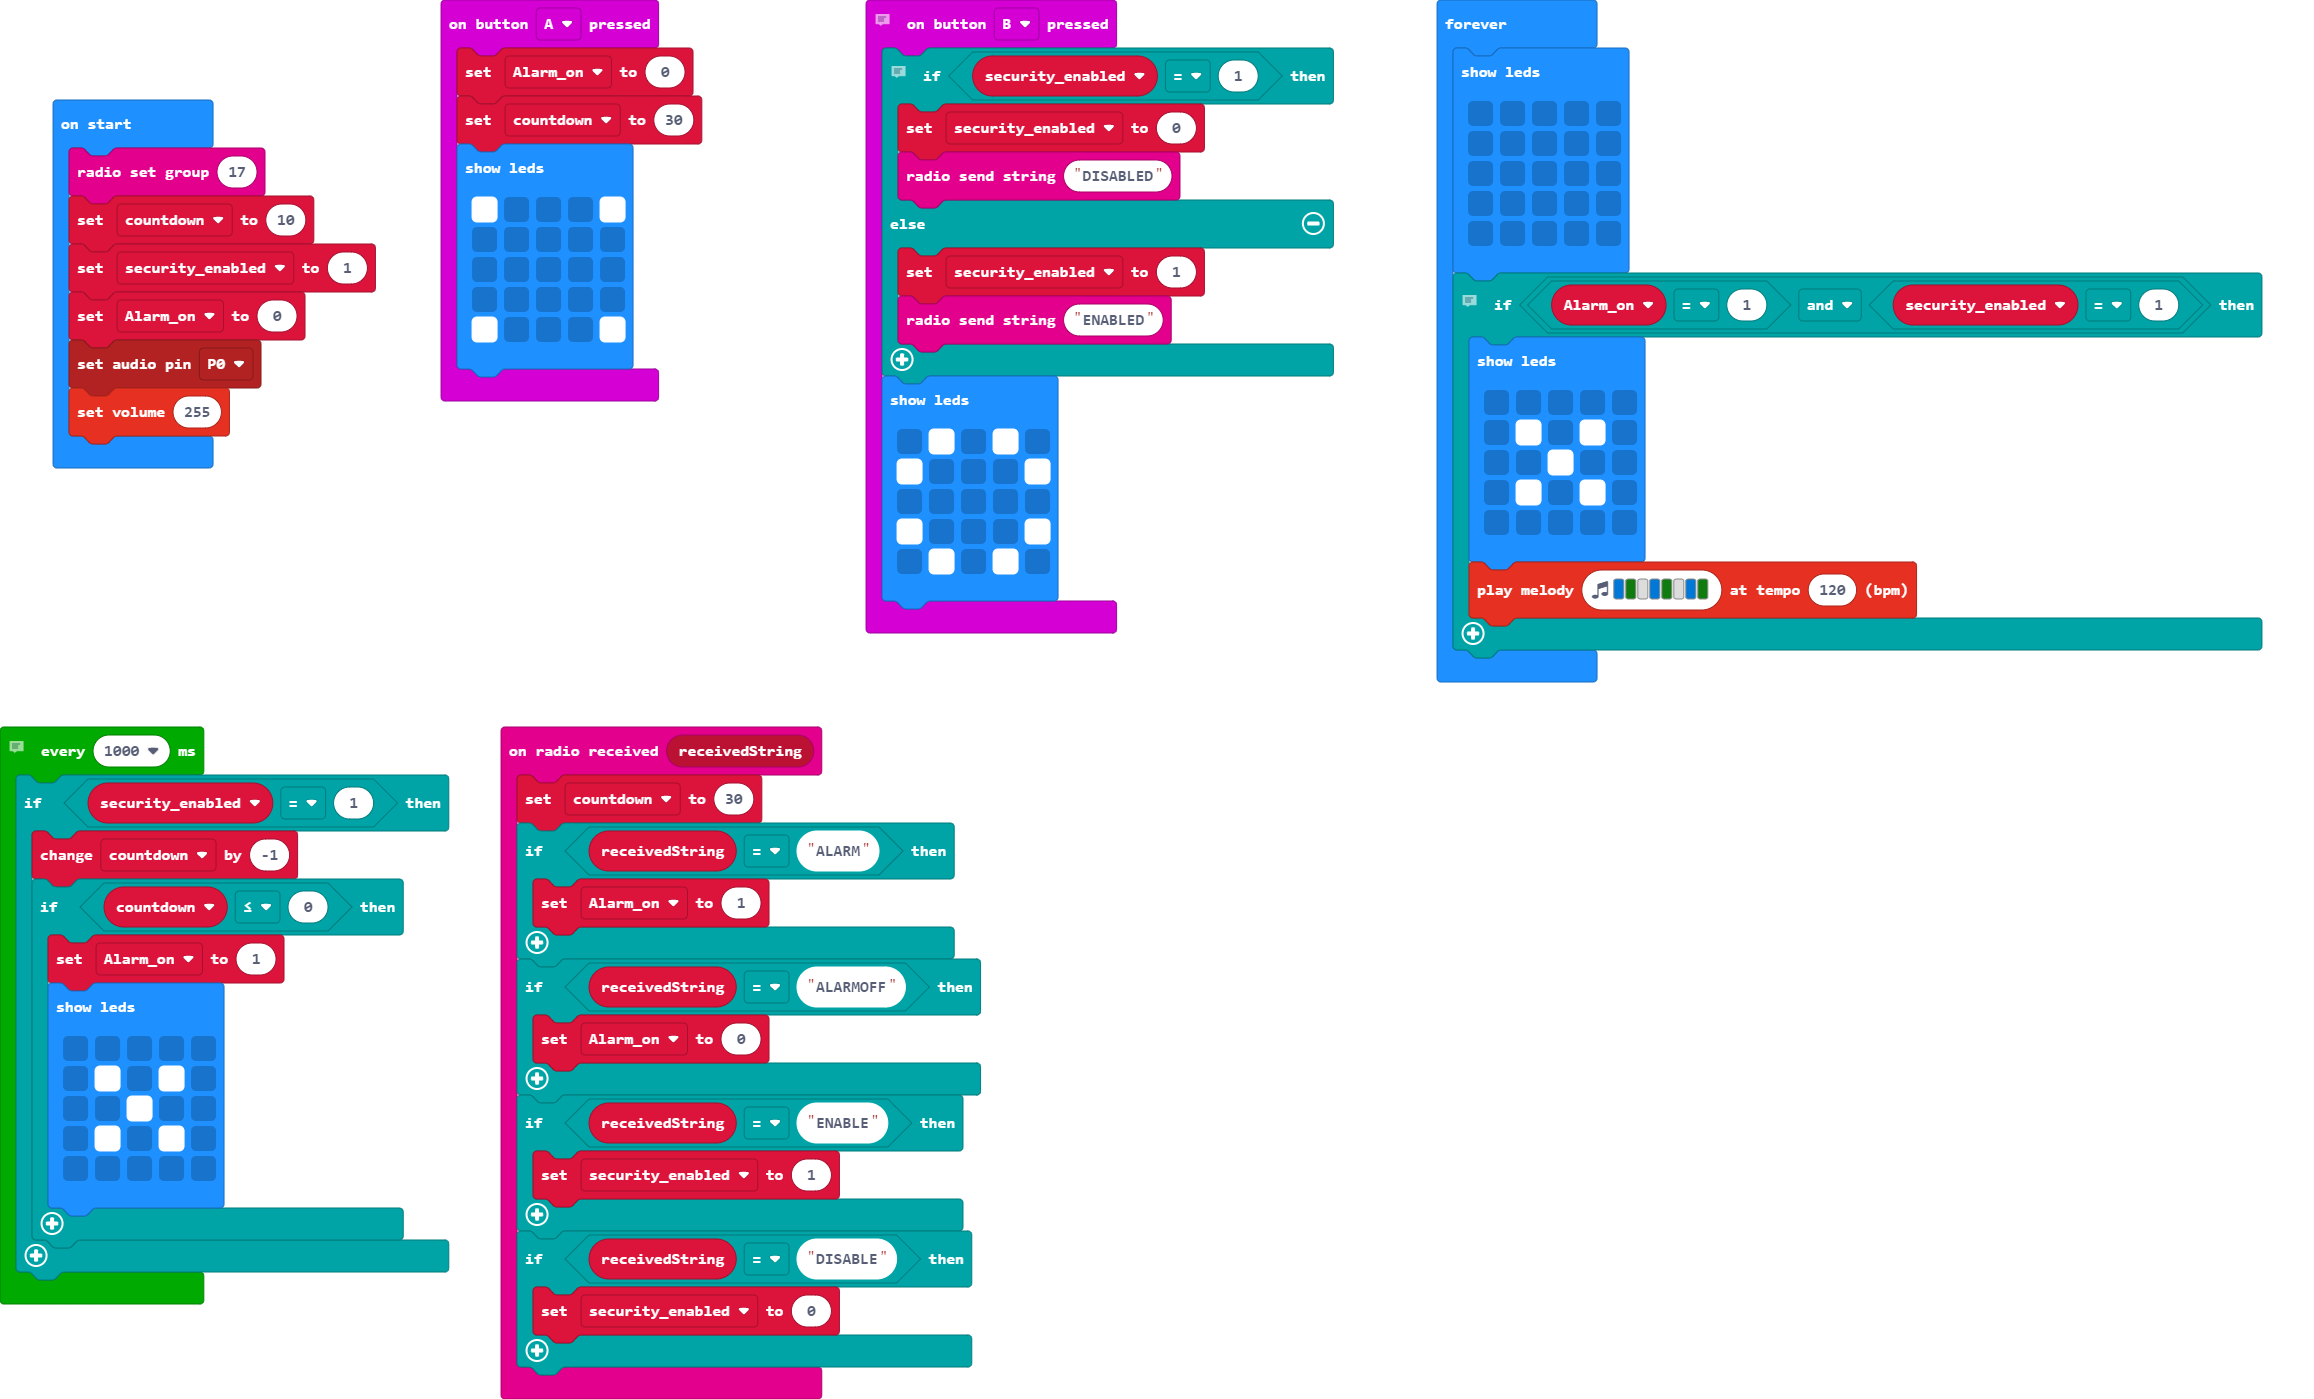
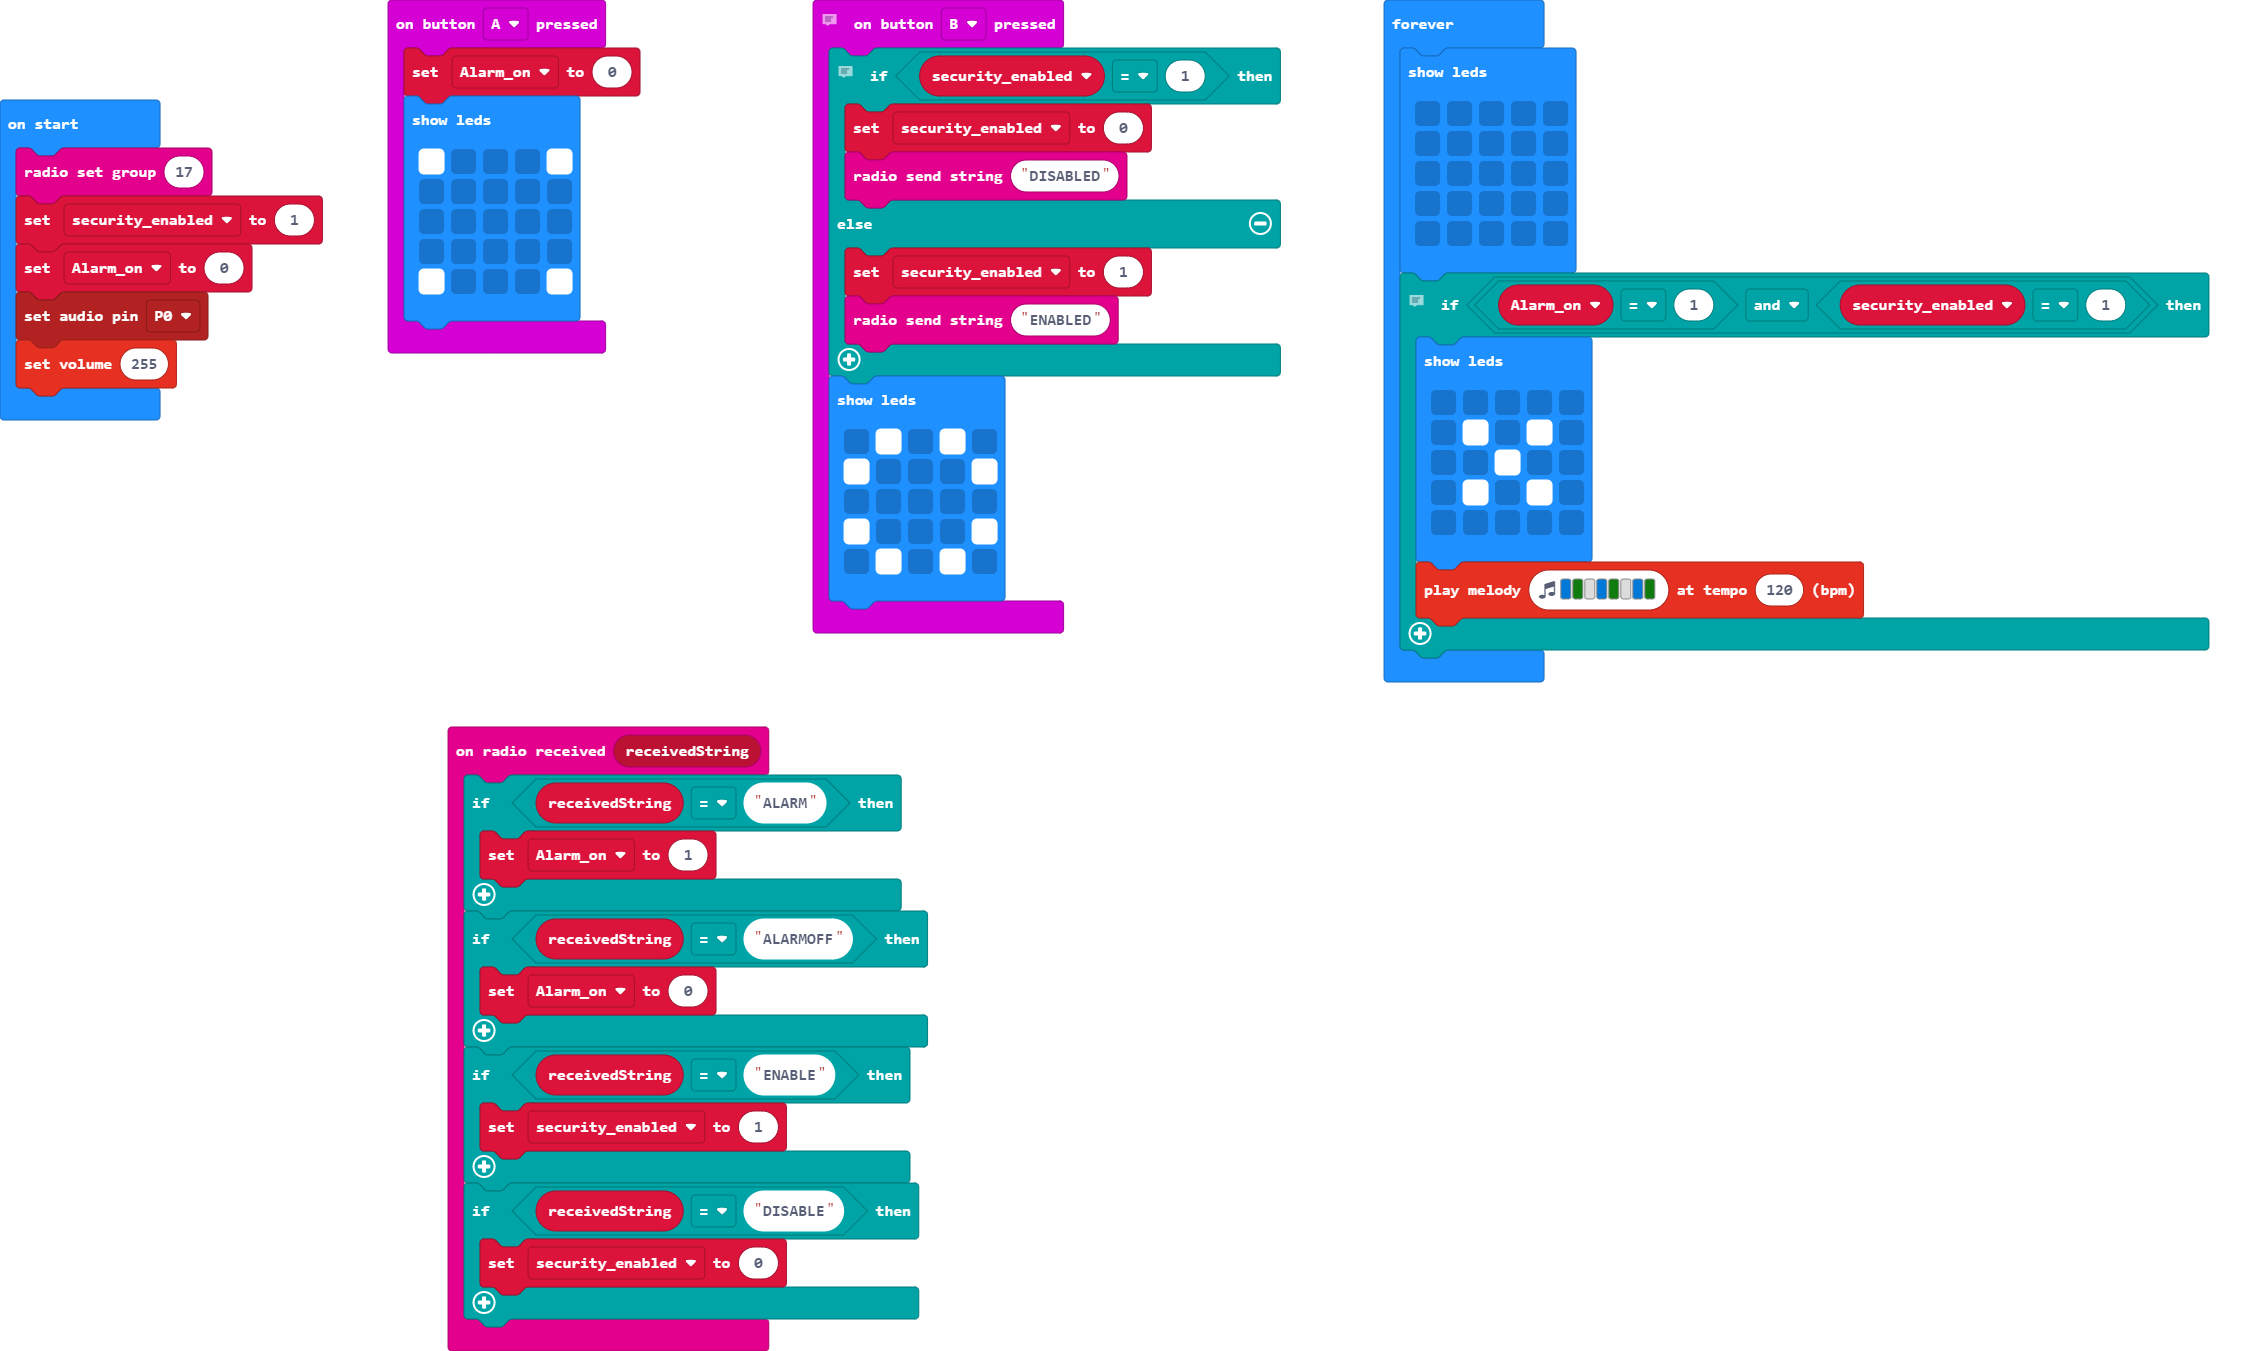
Update main.blocks, main.ts

Changed region(s): [[0.3406, 0.0, 0.9907, 0.5285], [0.0, 0.4974, 0.4334, 1.0], [0.0, 0.0, 0.3096, 0.342]]

diff --git a/main.ts b/main.ts
@@ -1,6 +1,5 @@
 input.onButtonPressed(Button.A, function () {
     Alarm_on = 0
-    countdown = 30
     basic.showLeds(`
         # . . . #
         . . . . .
@@ -10,7 +9,6 @@ input.onButtonPressed(Button.A, function () {
         `)
 })
 radio.onReceivedString(function (receivedString) {
-    countdown = 30
     if (receivedString == "ALARM") {
         Alarm_on = 1
     }
@@ -44,29 +42,11 @@ input.onButtonPressed(Button.B, function () {
 })
 let Alarm_on = 0
 let security_enabled = 0
-let countdown = 0
 radio.setGroup(17)
-countdown = 10
 security_enabled = 1
 Alarm_on = 0
 pins.setAudioPin(AnalogPin.P0)
 music.setVolume(255)
-// this is a part of the pinging system; every 30 sec. the other micro:bit sends a message and if it doesn't respond within 60 sec of the last time it sent a message, the alarm goes off
-loops.everyInterval(1000, function () {
-    if (security_enabled == 1) {
-        countdown += -1
-        if (countdown <= 0) {
-            Alarm_on = 1
-            basic.showLeds(`
-                . . . . .
-                . # . # .
-                . . # . .
-                . # . # .
-                . . . . .
-                `)
-        }
-    }
-})
 basic.forever(function () {
     basic.showLeds(`
         . . . . .
